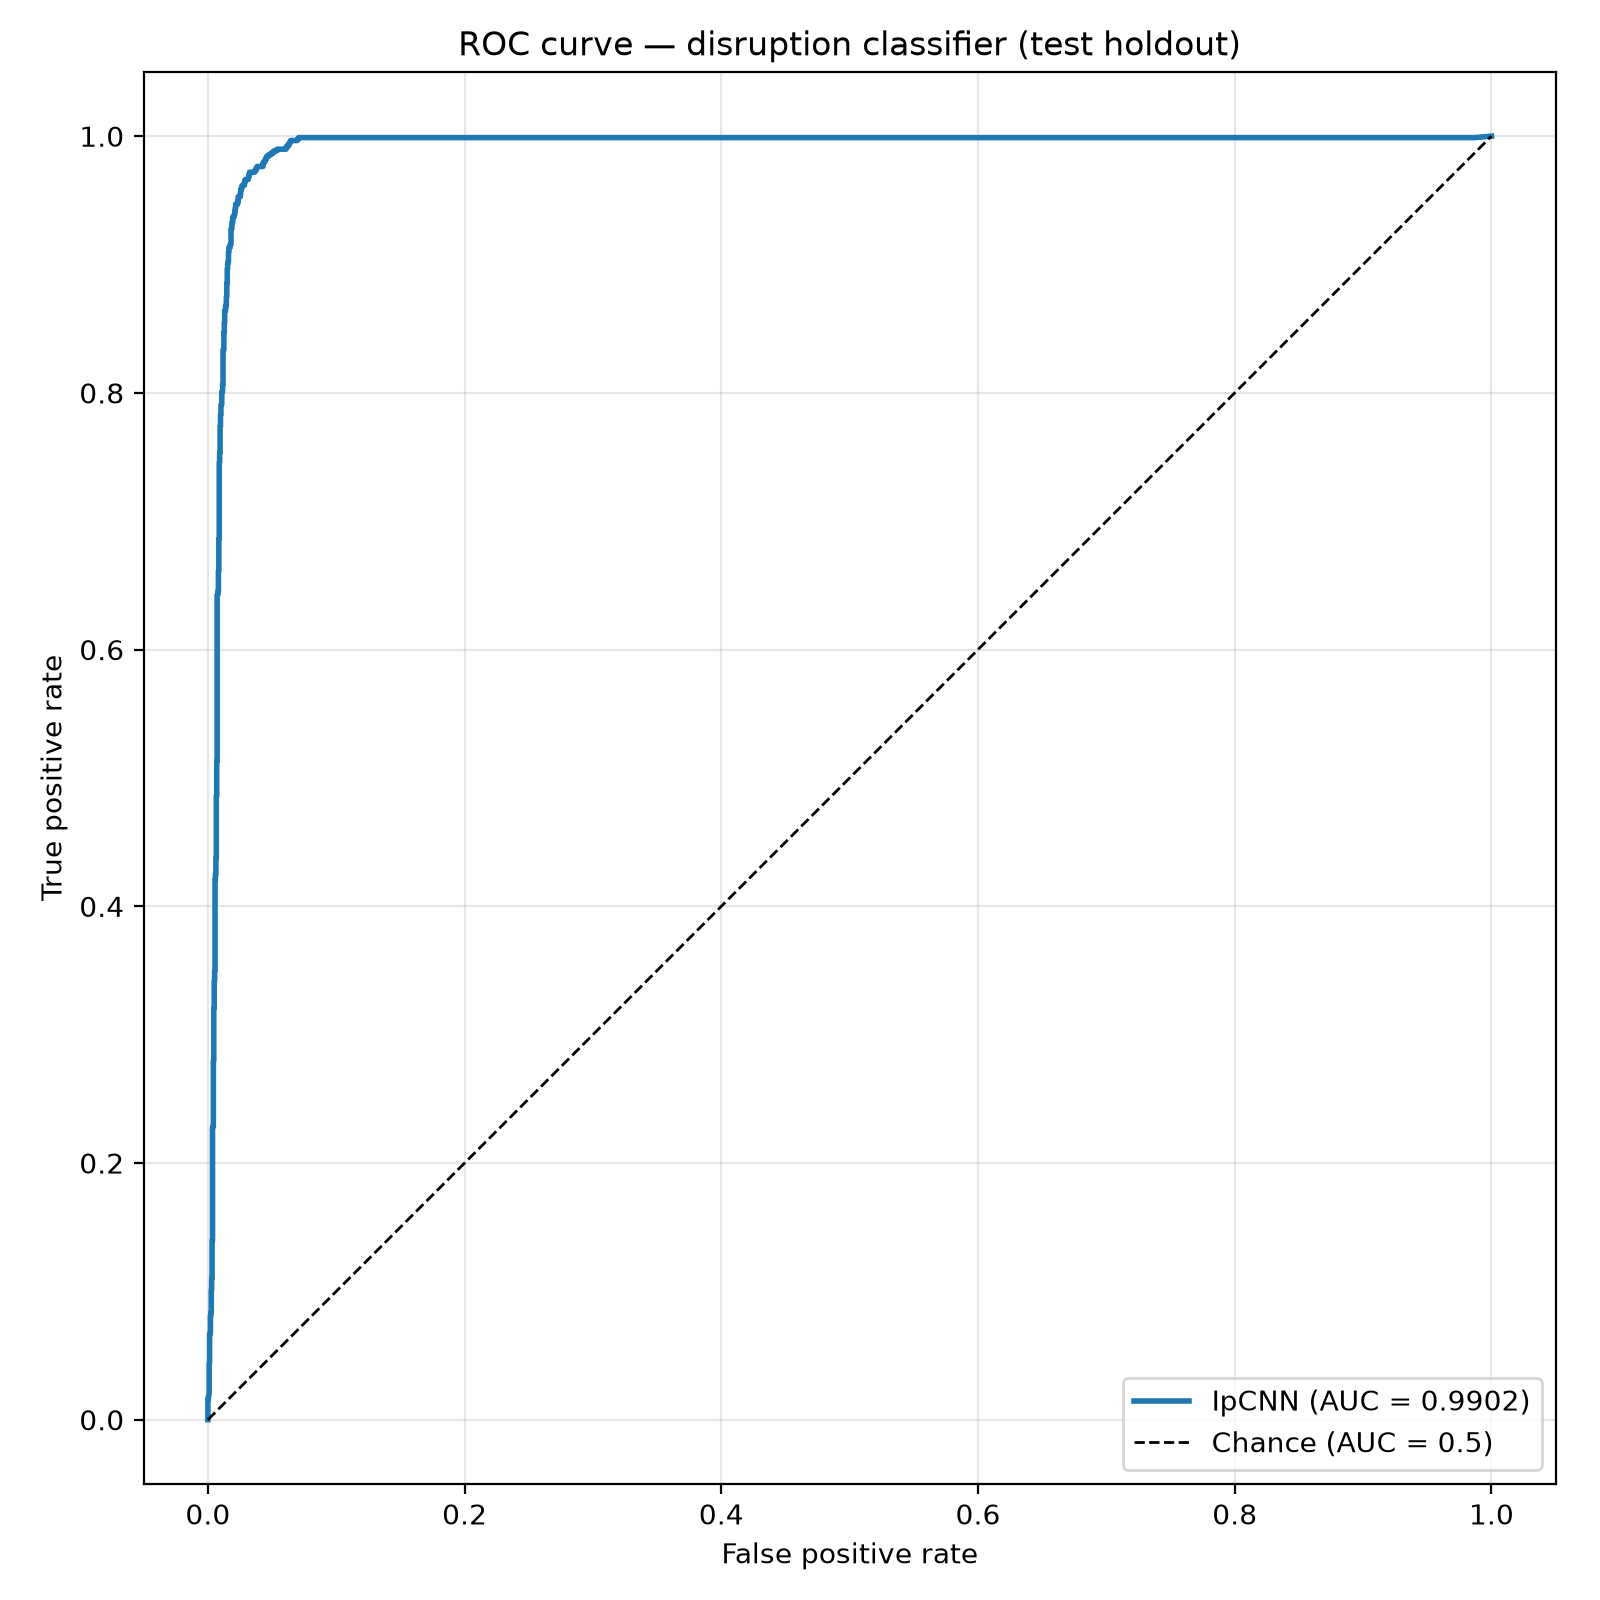
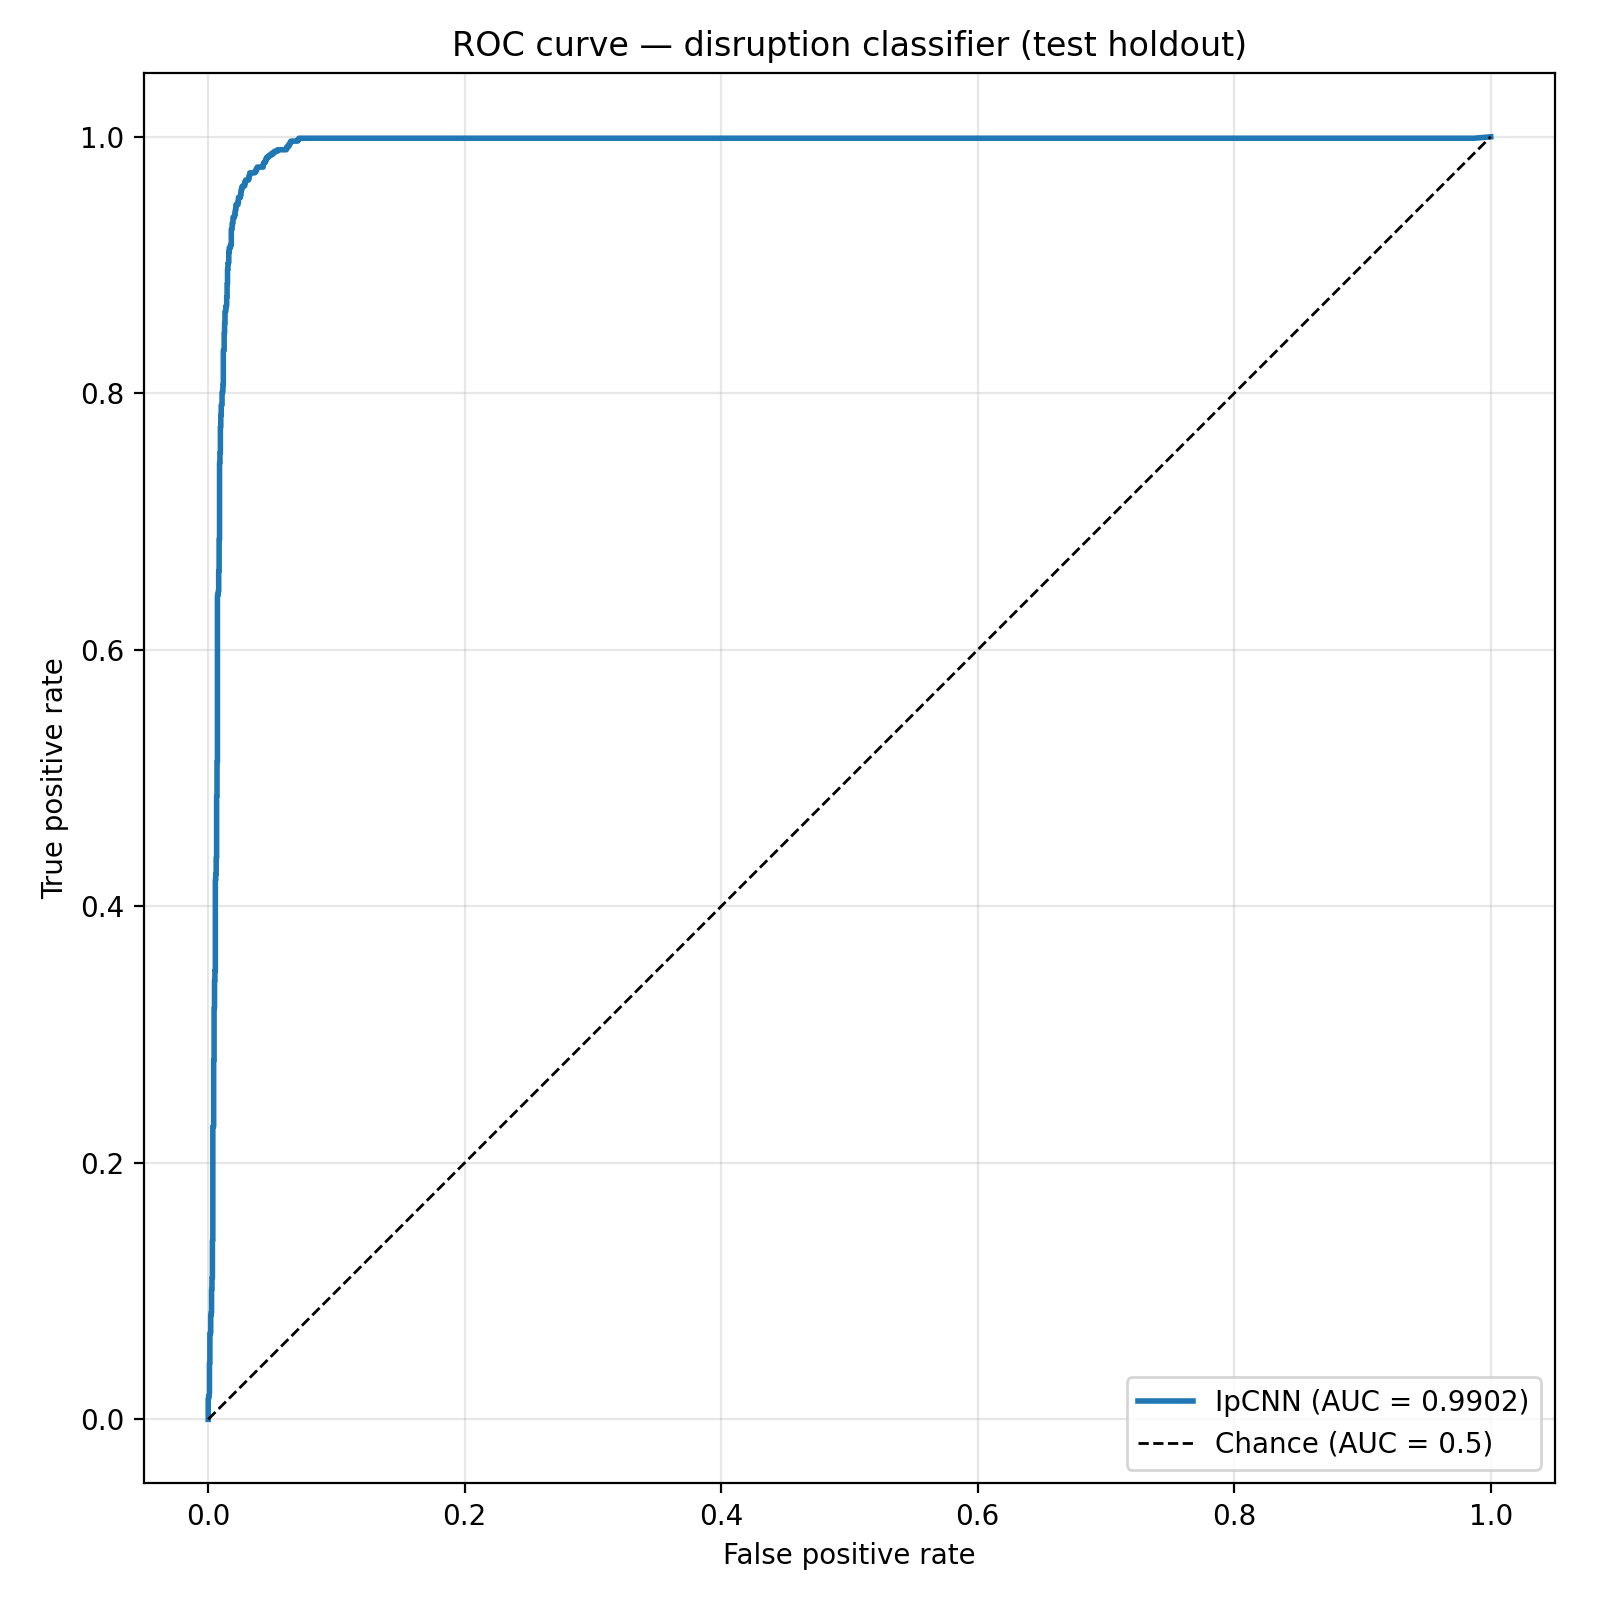
validation script done

diff --git a/main.tex b/main.tex
@@ -1,4 +1,4 @@
-\documentclass{article}
+\documentclass[twocolumn]{article}
 
 \usepackage{arxiv}
 
@@ -34,30 +34,37 @@
 }
 
 \begin{document}
-\maketitle
 
-\begin{abstract}
-Plasma in a Tokamak fusion reactor can often experience disruption events, causing damage to the interior reactor walls and resulting in a current drop to zero. The existence of a computationally inexpensive model for identifying disruptive shots and accurately identifying the time of disruption can assist the scientific community by efficiently auto-labeling experimental data for further analysis. We took an existing labeled disruption dataset from the DIII-D Tokamak reactor, utilizing shot numbers 125500-186000 (~40,000 total) to develop a new disruption labeling model that can generate automated labeling up to the current day. We train a CNN (Convolutional Neural Network) to perform boolean disruption/not-disruption prediction and achieve a 99\% recall and 91\% precision on our test dataset. We additionally develop a convolutional heuristic that accurately identifies time of disruption with a standard deviation $\sigma=\qty{8.7}{\milli\sec}$.
-\end{abstract}
+\twocolumn[
+  \maketitle
+  \begin{@twocolumnfalse}
+    \begin{abstract}
+    Plasma in a Tokamak fusion reactor frequently experiences disruption events that result in a current drop to zero. The existence of a computationally inexpensive model for identifying disruptive shots and accurately identifying time of disruption can assist the scientific community by auto-labeling experimental data for further analysis. We took a labeled disruption dataset from the DIII-D Tokamak reactor, utilizing shot numbers 125500-186000 (nearly 40,000 total shots) to develop a new disruption labeling model that can generate automated labeling up to the current day. We train a CNN (Convolutional Neural Network) to perform boolean disruption/not-disruption prediction and achieve a 99\% recall and 91\% precision on our test dataset. We additionally develop a convolutional heuristic that accurately identifies time of disruption, with 86\% of predictions within a standard deviation of $\qty{2.1}{\micro\s}$.
+    \end{abstract}
+    \vspace{1em}
+  \end{@twocolumnfalse}
+]
 
 
 % ==================================================================
 \section{Introduction}
 \label{sec:intro}
 
-State the problem, motivation, and contributions.
 
 % ==================================================================
 \section{Methods}
 \label{sec:methods}
 
-Describe data, models, training, and evaluation.
+
+Current vs. time data from DIII-D was availabile to us in the form of timestamped `.txt` files. We normalized every shot using the maximum current and shot length throughout the entire dataset, adding trailing zeroes to each shot to match the shape of the largest current series. Our classifier consisted of four convolutional layers, max pooling layers, Batch Normalization layers, and used a sigmoid activation function. See ~\ref{fig:model_diagram}.
 
 
 
-\begin{figure}[t]
+
+
+\begin{figure}[h]
   \centering
-  \includegraphics[width=0.8\linewidth]{best_model/model_diagram.png}
+  \includegraphics[width=\columnwidth]{best_model/model_diagram.png}
   \caption{Figure caption.}
   \label{fig:model_diagram}
 \end{figure}
@@ -83,13 +90,6 @@ Report quantitative and qualitative findings. Reference figures and tables as ne
   \label{fig:disruption_time_diff}
 \end{figure}
 
-
-
-% ==================================================================
-\section{Discussion}
-\label{sec:discussion}
-
-Interpret results, note limitations, and compare to prior work.
 
 % ==================================================================
 \section{Conclusion}

diff --git a/src/util/disruption_predict.py b/src/util/disruption_predict.py
@@ -7,7 +7,7 @@ import numpy as np
 DEFAULT_SMOOTHING = 300
 
 # The boxcar smoother lags the true corner by a fixed fraction of its own window. Measured experimentally.
-LAG_WINDOW_FRACTION = 0.09
+# LAG = 0.09
 
 
 def get_window_size(current):
@@ -49,12 +49,12 @@ def apply_filter(current):
 
 def predict_disruption_time(current, time) -> float:
     diff, _ = apply_filter(current)
-    dt = float(np.median(np.diff(time)))
-    lag = LAG_WINDOW_FRACTION * get_window_size(current) * dt
+    # dt = float(np.median(np.diff(time)))
+    # lag = LAG_WINDOW_FRACTION * get_window_size(current) * dt
 
     idx_peak = np.argmax(diff)
     idx_trough = np.argmin(diff[idx_peak:]) + idx_peak
     # find where the
     idx_root = np.abs(diff[idx_peak:idx_trough]).argmin()
-    # print(idx_peak, idx_trough, idx_root)
+    # print(lag, dt, get_window_size(current), get_window_size(current) * dt)
     return float(time[int(idx_peak + idx_root)])